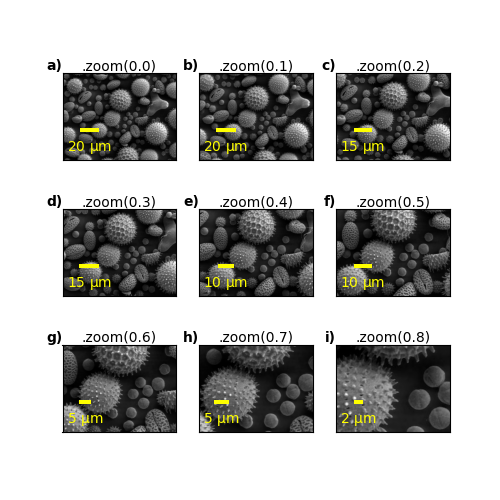
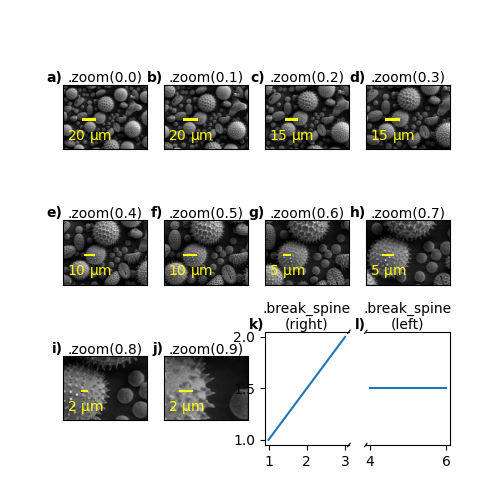
broken spines

diff --git a/matplotlib_extension/extension.py b/matplotlib_extension/extension.py
@@ -39,6 +39,49 @@ def scalebar(self, dx, units, width_fraction, location='lower left', color='yell
   self.add_artist(bar)
   return bar
 
+def break_spine(self, spine, color='k', d=0.015):
+
+    kwargs = {
+      'transform': self.transAxes, 
+      'color': color, 
+      'clip_on': False, 
+      'linewidth': matplotlib.rcParams['axes.linewidth'],
+    }
+
+    ax_h, ax_w = self.bbox.height, self.bbox.width
+    h_w = ax_h/ax_w
+    w_h = ax_w/ax_h
+    y_bottom = (-d, +d)
+    y_top = 1 - d, 1 + d
+
+    if spine in ['left', 'right', 'top', 'bottom']:
+
+      self.spines[spine].set_visible(False)
+
+      if spine == 'right':
+
+        x = (1 - d*h_w, 1 + d*h_w)
+        self.plot(x, y_bottom, **kwargs)
+        self.plot(x, y_top, **kwargs)
+        self.tick_params(
+          axis='y',
+          which='both',
+          right=False,
+          labelright=False,
+        )
+      
+      elif spine == 'left':
+
+        x = (-d*h_w, +d*h_w)
+        self.plot(x, y_bottom, **kwargs)
+        self.plot(x, y_top, **kwargs)
+        self.tick_params(
+          axis='y',
+          which='both',
+          left=False,
+          labelleft=False,
+        )
+
 
 functions = {name: thing for (name, thing) in locals().items() if isfunction(thing) and thing not in [isfunction, signature]}
 

diff --git a/example.py b/example.py
@@ -2,18 +2,31 @@ import matplotlib.pyplot
 import matplotlib_extension
 from string import ascii_lowercase as letters
 
-fig, axes = matplotlib.pyplot.subplots(3, 3)
+fig, axes = matplotlib.pyplot.subplots(3, 4)
 X = matplotlib.pyplot.imread('example_image.jpg')
 
 for i, (ax, letter) in enumerate(zip(axes.flatten(), letters)):
-	ax.imshow(X)
-	z = 0.1 * i
-	ax.zoom(z)
-	ax.set_panel_label(f'{letter})')
-	ax.set_top_label(f'.zoom({z:.1f})')
-	ax.set_xticks([])
-	ax.set_yticks([])
-	ax.scalebar(1/10, 'um', 0.04)
+	if i < len(axes.flatten()) - 2: 
+		ax.imshow(X)
+		z = 0.1 * i
+		ax.zoom(z)
+		ax.set_panel_label(f'{letter})')
+		ax.set_top_label(f'.zoom({z:.1f})')
+		ax.set_xticks([])
+		ax.set_yticks([])
+		ax.scalebar(1/10, 'um', 0.04)
+	elif i == len(axes.flatten()) - 2:
+		spine = 'right'
+		ax.plot([1, 2, 3], [1, 1.5, 2])
+		ax.set_panel_label(f'{letter})')
+		ax.break_spine(spine)
+		ax.set_top_label(f'.break_spine\n({spine})')
+	elif i == len(axes.flatten()) - 1:
+		spine = 'left'
+		ax.plot([4, 5, 6], [3, 3, 3])
+		ax.set_panel_label(f'{letter})')
+		ax.break_spine(spine)
+		ax.set_top_label(f'.break_spine\n({spine})')
 
 fig.set_size_inches((5, 5))
 fig.savefig('example.png', dpi=100)
